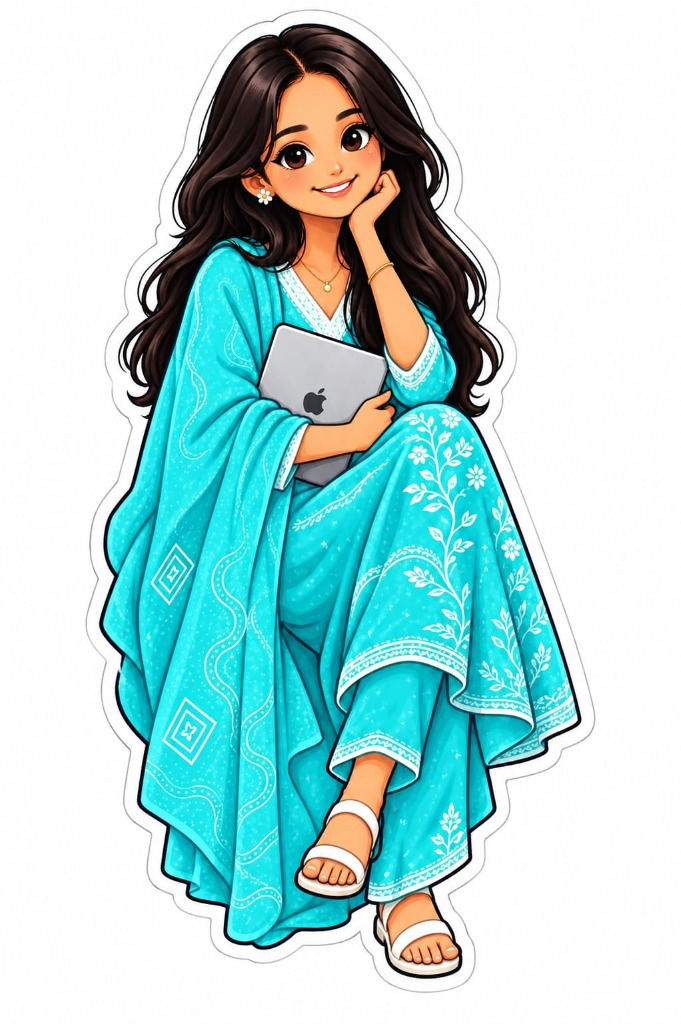
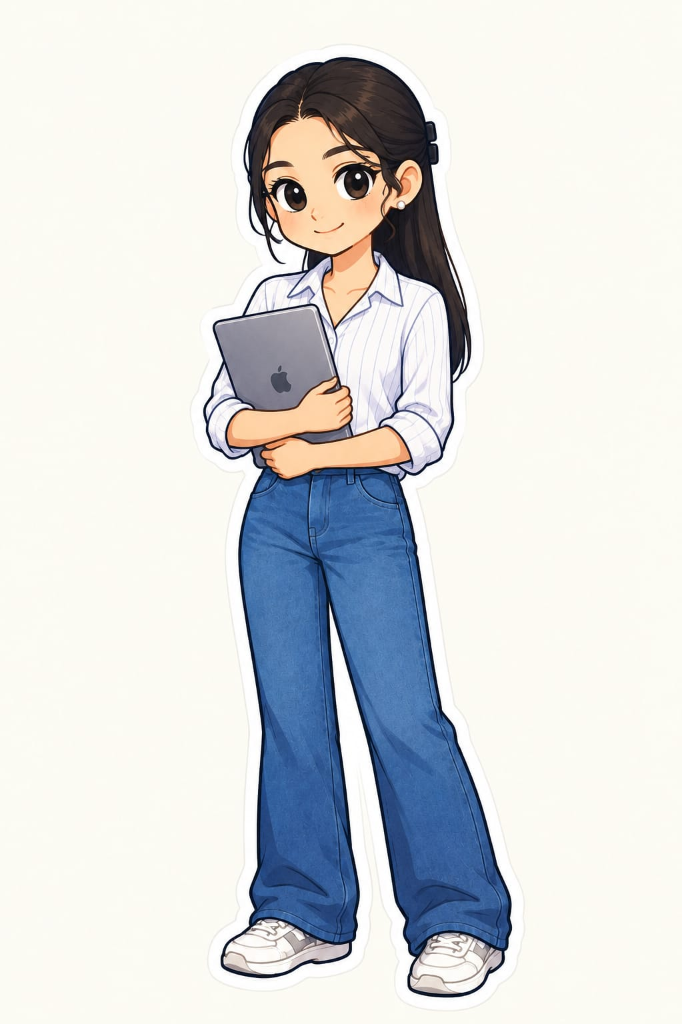
Update Box 6 image and match background color

diff --git a/src/pages/TeamPage.jsx b/src/pages/TeamPage.jsx
@@ -133,8 +133,8 @@ export const TeamPage = () => {
       badge: 'CSE',
       memberName: 'Suhashree Reddy',
       badgeBg: 'bg-[#263238]/20 text-[#263238] border-[#263238]/40',
-      bg: 'bg-[#FEFEFE]',
-      imgBg: 'bg-[#FEFEFE]',
+      bg: 'bg-[#FBFBF3]',
+      imgBg: 'bg-[#FBFBF3]',
       isDark: false,
       icon: Code,
       image: '/team-box6.png',
